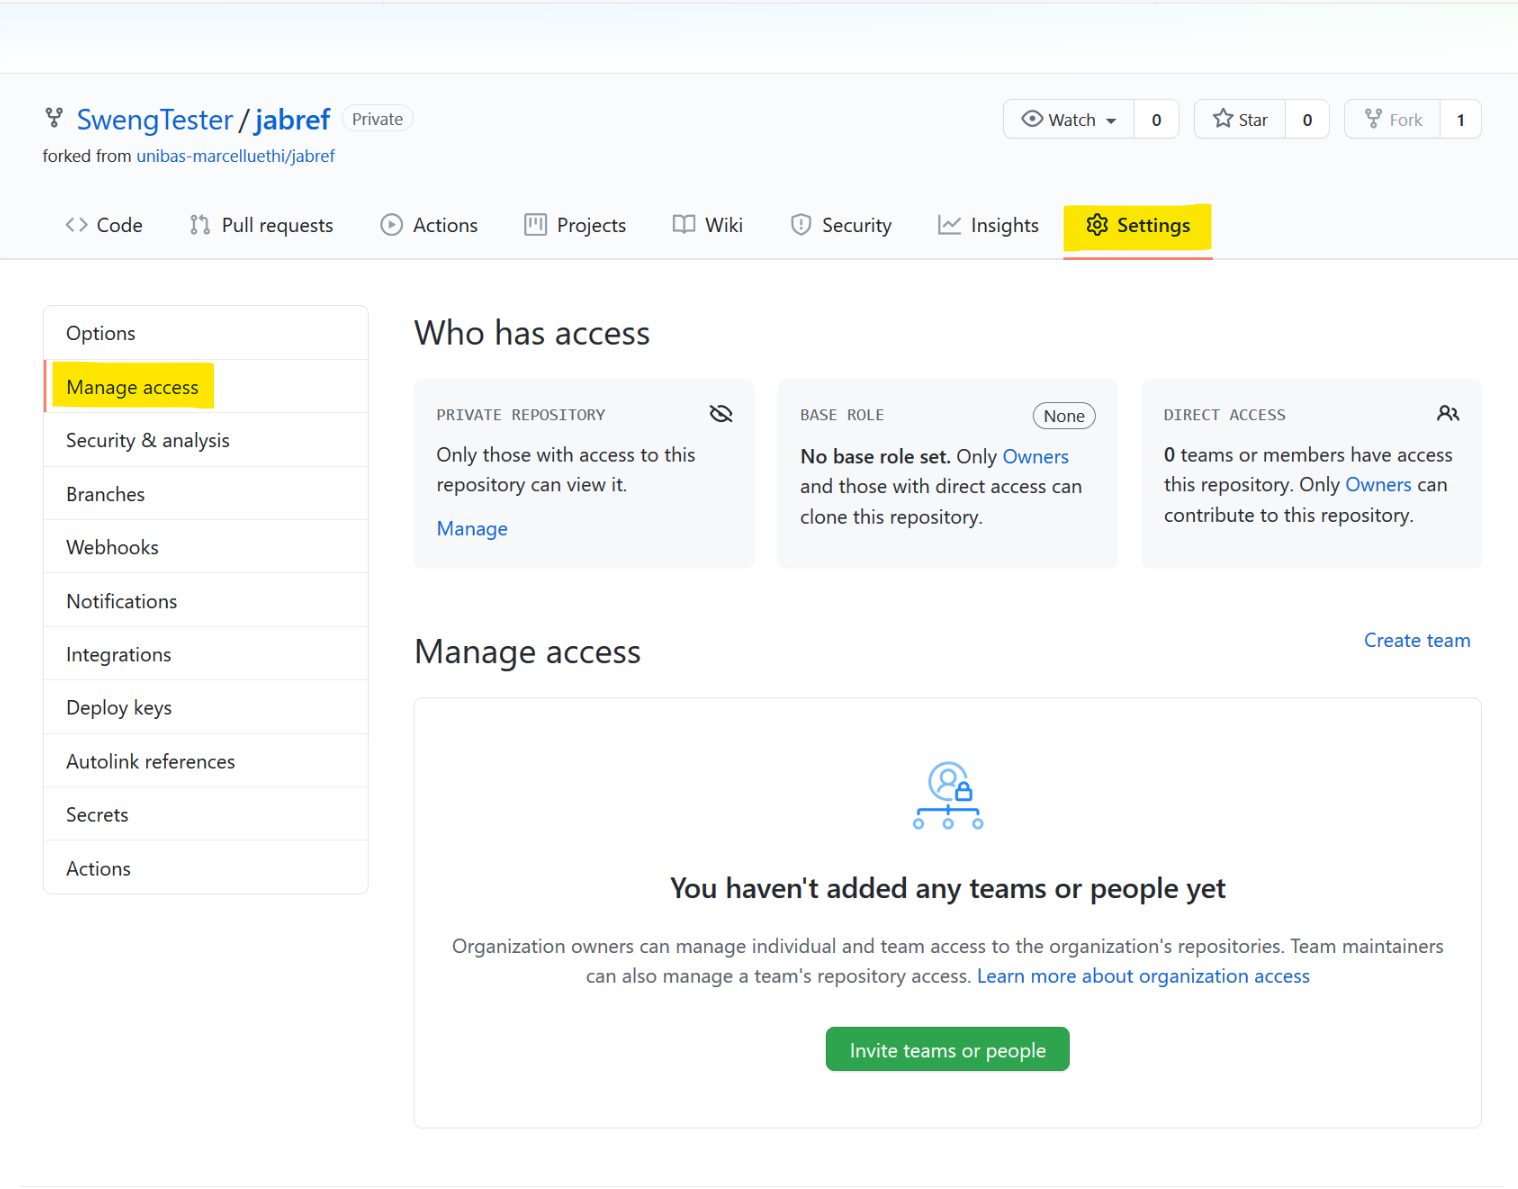
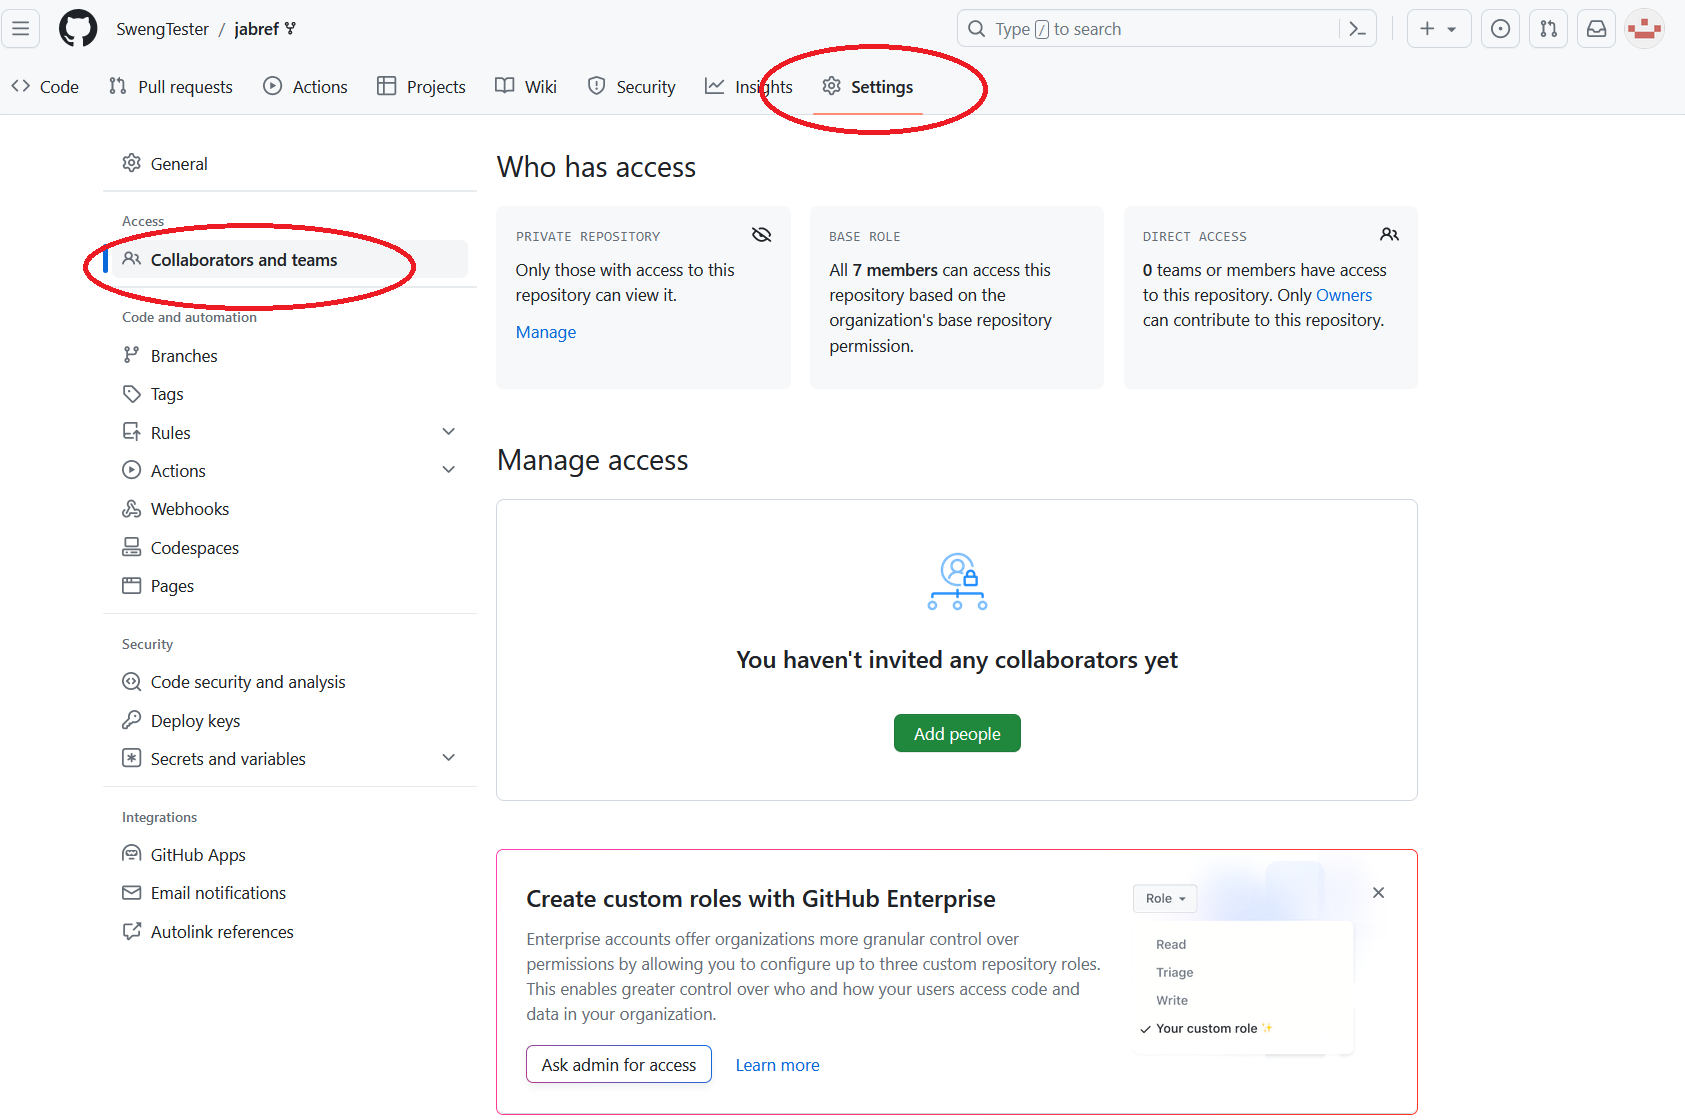
update week 1

diff --git a/docs/exercises/jabref-setup.md b/docs/exercises/jabref-setup.md
@@ -7,7 +7,7 @@ title : Woche 1
 
 ## Administratives
 
-* Dieses Übungsblatt wird in der Übungsstunde vom 21. September eingeführt und bearbeitet. Falls die Zeit in der Übungsstunde nicht reicht, sollte das Setup bis zur Übungsstunde am 28. September fertiggestellt werden.
+* Dieses Übungsblatt wird in der Übungsstunde vom 20. September eingeführt und bearbeitet. Falls die Zeit in der Übungsstunde nicht reicht, sollte das Setup bis zur Übungsstunde am 27. September fertiggestellt werden.
 
 * Es ist keine Abgabe erforderlich.
 
@@ -65,7 +65,7 @@ mit diesem Arbeiten. Eine Anleitung dazu finden Sie [hier](https://docs.github.c
 ### Installieren von Java und JavaFX
 
 Für die Entwicklung von JabRef nutzen wir Java in der Version 18. Wir empfehlen Ihnen die Version 
-von Eclipse Temurin, die Sie [hier](https://adoptium.net/temurin/releases?version=18) herunterladen
+von Eclipse Temurin, die Sie [hier](https://adoptium.net/temurin/releases?version=19) herunterladen
 können. 
 
 --
@@ -74,9 +74,10 @@ Umgebungsvariable ```JAVA_HOME``` und ```PATH``` auf das neu installierte JDK.
 
 Unter Windows (Powershell) machen Sie das wie folgt:
 ```
-$env:JAVA_HOME="C:\Program Files\Eclipse Adoptium\jdk-18.0.1.10-hotspot"
-$env:PATH="C:\Program Files\Eclipse Adoptium\jdk-18.0.1.10-hotspot\bin;$env:PATH" 
+$env:JAVA_HOME="C:\Program Files\Eclipse Adoptium\jdk-19.0.2.7-hotspot"
+$env:PATH="H" 
 ```
+*Achtung:* Der Pfad kann sich je nach Version unterscheiden. Bitte passen Sie den Pfad entsprechend an.
 
 Unter MacOS sollte das folgende Kommando funktionieren:
 ```
@@ -86,7 +87,7 @@ export "PATH=$JAVA_HOME/bin:$PATH"
 
 und unter Linux setzen Sie diese Variablen wie folgt:
 ```
-export JAVA_HOME=PFAD_ZU_IHRER_JAVA_18_INSTALLATION
+export JAVA_HOME=PFAD_ZU_IHRER_JAVA_19_INSTALLATION
 export “PATH=$JAVA_HOME/bin:$PATH”
 ```
 
@@ -96,10 +97,11 @@ Danach geben Sie folgendes Kommando ein:
 ```
 Die Ausgabe sollte ungefähr wie folgt aussehen:
 ```bash
-openjdk version "18.0.1" 2022-04-19
-OpenJDK Runtime Environment Temurin-18.0.1+10 (build 18.0.1+10)
-OpenJDK 64-Bit Server VM Temurin-18.0.1+10 (build 18.0.1+10, mixed mode, sharing)
+openjdk version "19.0.2" 2023-01-17
+OpenJDK Runtime Environment Temurin-19.0.2+7 (build 19.0.2+7)
+OpenJDK 64-Bit Server VM Temurin-19.0.2+7 (build 19.0.2+7, mixed mode, sharing)
 ```
+*Anmerkung:* Das Buildsystem Gradle, welches wir für das kompilieren und ausführen von JabRef verwenden, nutzt die Umgebungsvariable ```JAVA_HOME``` um das JDK zu finden. Diese Umgebungsvariable muss also immer richtig gesetzt sein, wenn Sie JabRef aus einem Terminal kompilieren oder ausführen wollen.
 
 ## JabRef
 
@@ -107,7 +109,8 @@ Nachdem wir nun alle Werkzeuge installiert haben, müssen wir noch das JabRef Pr
 
 
 ### Forken des Github Repositories
-Im ersten Teil dieses Kurses arbeiten wir nicht mit dem offiziellen JabRef Code repository, sondern mit einem privaten Fork. Damit sind ihre Änderungen und unsere Bemerkungen für die Öffentlichkeit nicht zugänglich.
+
+In diesem Kurs arbeiten wir nicht mit dem offiziellen JabRef Code repository, sondern mit einem privaten Fork. Damit sind ihre Änderungen und unsere Bemerkungen für die Öffentlichkeit nicht zugänglich.
 Damit Sie auf unseren Fork von JabRef zugreifen können, müssen wir Ihnen Zugriff auf dieses Repository geben. Sie können überprüfen ob Sie Zugriff haben indem Sie auf [https://github.com/unibas-marcelluethi/jabref](https://github.com/unibas-marcelluethi/jabref) gehen.
 Falls Sie bereits Zugriff haben, sollte die Seite etwa wie folgt aussehen:
 ![image](images/github-jabref.png)
@@ -120,11 +123,11 @@ Nun erstellen Sie, ausgehend von unserem privaten Fork, ihren eigenen privaten F
 Damit unsere Assistenten Ihre Abgaben anschauen können, müssen Sie diesen noch Zugriffsrechte auf ihr neues Repository geben. Dafür gehen Sie auf *Settings* und dann *Manage access*:
 ![github-manage-access](images/github-manage-access.png)
 
-Klicken Sie dann auf *Invite Teams or people* und fügen Sie `Luujauhe`, `linuspetrucci` und `gjoyet` hinzu.
+Klicken Sie dann auf *Add people* und fügen Sie `TODO github name`, `TODO github name` und `TODO github name` hinzu.
 ![github-manage-access](images/github-manage-access-invite.png)
 
 Als Rolle im nachfolgenden Dialog wählen Sie *Write*.
-![github-manage-access](images/github-manage-access-role.png)
+
 
 ### Klonen des Projekts
 
@@ -133,10 +136,10 @@ Damit Sie an dem Projekt arbeiten können müssen Sie das Repository noch auf Ih
 Öffnen Sie eine Konsole, wechseln Sie in ihr gewünschtes Arbeitsverzeichnis und geben Sie folgendes ein:
 
 ```
-git clone THE_URL_FOR_YOUR_PROJECT
+git clone THE_URL_FOR_YOUR_PROJECT JabRef
 ```
 
-*Warnung: * Das Arbeitsverzeichnis darf nicht auf einem synchronisiert Drive sein. Dies führt zum einen zu Problemen mit JabRef selbst, vor allem aber auch mit git. 
+***Warnung:* Das Arbeitsverzeichnis darf nicht auf einem synchronisiert Drive sein. Dies führt zum einen zu Problemen mit JabRef selbst, vor allem aber auch mit git.** 
 
 ### Kompilieren des Projekts von der Kommandozeile
 
@@ -160,7 +163,10 @@ Mit dem Befehl
 ```
 können Sie das Projekt dann starten.
 
-## Bearbeiten des Projekts in der IDE
+Wenn Sie nun das JabRef Programm sehen, dann konnten Sie ihr Projekt erfolgreich kompilieren und ausführen. Herzlichen Glückwunsch!
+Sie werden in der Praxis aber nie direkt mit Gradle arbeiten, sondern meist über die IDE. Falls aber mal etwas nicht funktioniert (was bei so einem so grossen Projekt immer mal wieder vorkommt), können Sie mit diesen Kommandos von der Kommandozeile aus das Projekt bauen und ausführen, und so herausfinden, ob das Problem bei der IDE liegt.
+
+## Öffnen des Projekts in der IDE
 
 ### IntelliJ Idea
 
@@ -168,12 +174,10 @@ Installieren Sie die Entwicklungsumgebung [IntelliJ IDEA](https://www.jetbrains.
 
 *Bemerkung 1:* Wir arbeiten in diesem Kurs mit der *Community Edition*, die als Open Source uneingeschränkt zugänglich ist.
 
-Öffnen Sie nun Ihre JabRef Projekt in IntelliJ Idea, indem Sie auf dem *Welcome Screen* auf *Open*  gehen oder, falls Sie sich schon in der IDE befinden, im Menu *File->Open* wählen. Dann wählen Sie die Datei ```build.gradle``` in Ihrem JabRef Verzeichnis.
+Folgen Sie dann der Anleitung [Setup a local workspace](https://devdocs.jabref.org/getting-into-the-code/guidelines-for-setting-up-a-local-workspace/) in der JabRef [Development Documentation](https://devdocs.jabref.org/). 
+Die ersten 3 Schritte, die mit *Pre condition* beginnen, können Sie überspringen, da Sie diese bereits erfüllt haben.
 
-Nun müssen Sie die Einstellungen in IntelliJ noch für die Entwicklung von JabRef anapssen. Wie das geht ist detailliert in der JabRef [Development Documentation](https://devdocs.jabref.org/getting-into-the-code/guidelines-for-setting-up-a-local-workspace#configure-your-ide) erklärt.
-Lesen Sie die Erklärung durch und führen Sie alle Einstellungen wie angegeben durch.  Den Abschnitt *Using IntelliJ's internal build system* können Sie überspringen, da dies nicht zuverlässig funktioniert und wir das Projekt deshalb immer via Gradle bauen uns ausführen werden.
-Aktivieren Sie aber Checkstyle, wie im Abschnitt *Using JabRef's code style* beschrieben. Damit wird sichergestellt, dass ihr Code jeweils nach den Projektvorgaben formatiert ist.
-Falls Sie unter *Tools* keinen Eintrag Checkstyle finden sollten, müssen Sie zuerst noch das Checkstyle plugin installieren(via *File->Settings->Plugins*).
+*Bemerkung 2:* In der Anleitung wird bereits Java 20 verwendet. Wir verwenden aber Java 19. Sie müssen also bei der Auswahl des JDKs die Version 19 wählen.	
 
 
 ### Ausführen des Projekts aus der IDE

diff --git a/docs/week1/index.md b/docs/week1/index.md
@@ -23,30 +23,19 @@ Die Studierenden
 * Einführung in Software Engineering
     * Slides (Auf Adam): [pdf](https://adam.unibas.ch/goto_adam_file_1450685_download.html)
 
-* [No silver bullet - Essence and Accidents in Software Engineering](http://www.sci.brooklyn.cuny.edu/~sklar/teaching/s10/cis20.2/papers/brooks-no-silver-bullet.pdf)
-
 
 ## Übungsstunde
 
  Im praktischen Teil der Veranstaltung geben wir eine kurze Einführung in 
- Jabref und helfen Ihnen die Entwicklungsumgebung und JabRef einzurichten. Sie gehen dabei gemäss dieser [Anleitung](../exercises/jabref-setup) vor. 
+ Jabref und helfen Ihnen, die Entwicklungsumgebung und JabRef einzurichten. Sie gehen dabei gemäss dieser [Anleitung](../exercises/jabref-setup) vor. 
 
 
 ## Hausaufgaben
 
-Zu bearbeiten bis 27. September
+Bitte bearbeiten Sie folgende Aufgaben vor Mittwoch, 27. September. 
 
-##### Theorie
-
-- Lesen des Papers [No silver bullet - Essence and Accidents in Software Engineering](http://www.sci.brooklyn.cuny.edu/~sklar/teaching/s10/cis20.2/papers/brooks-no-silver-bullet.pdf)
-- Selbsttest ([auf Adam)](https://adam.unibas.ch/goto_adam_tst_1435781.html) bearbeiten.
-
-##### Praxis
-
-- Einrichten der Entwicklungsumgebung und JabRef gemäss dieser [Anleitung](../exercises/jabref-setup)
-
-
-
-
+* Arbeiten Sie den [Selbststudiumsteil Woche 2](../week2/index) durch und bearbeiten Sie die dort angegebenen Aufgaben. 
+* Richten Sie die Entwicklungsumgebung und JabRef gemäss obiger [Anleitung](../exercises/jabref-setup) ein.
+* Experimentieren Sie mit JabRef und finden Sie heraus, was Sie mit der Software machen können. 
 
 
